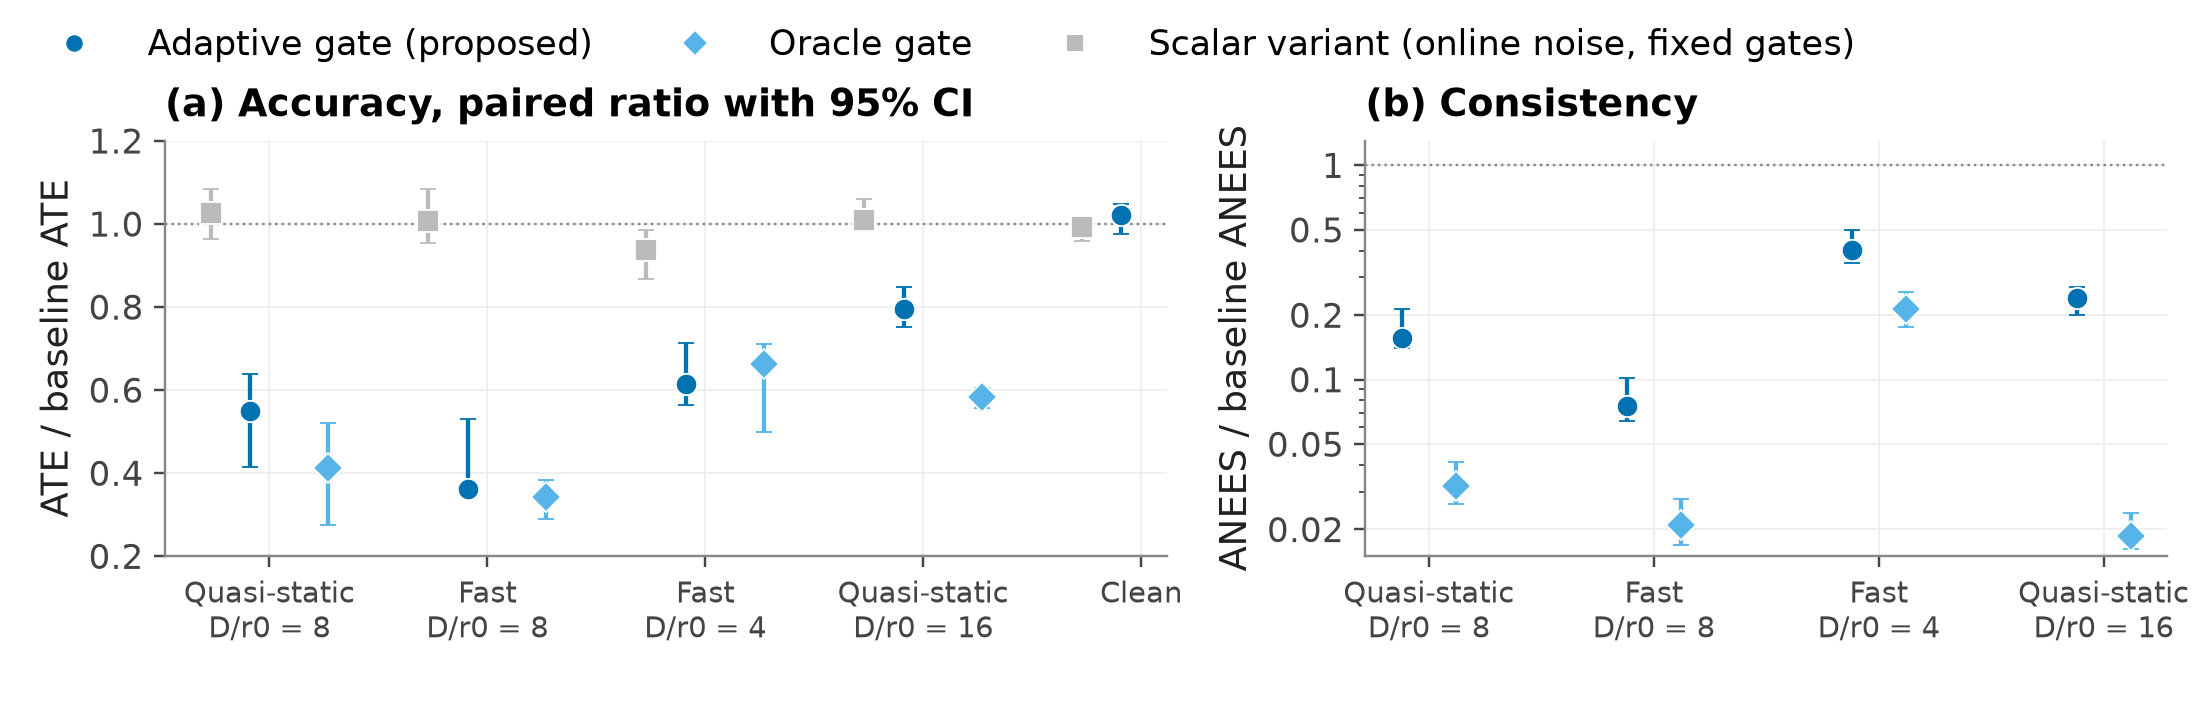
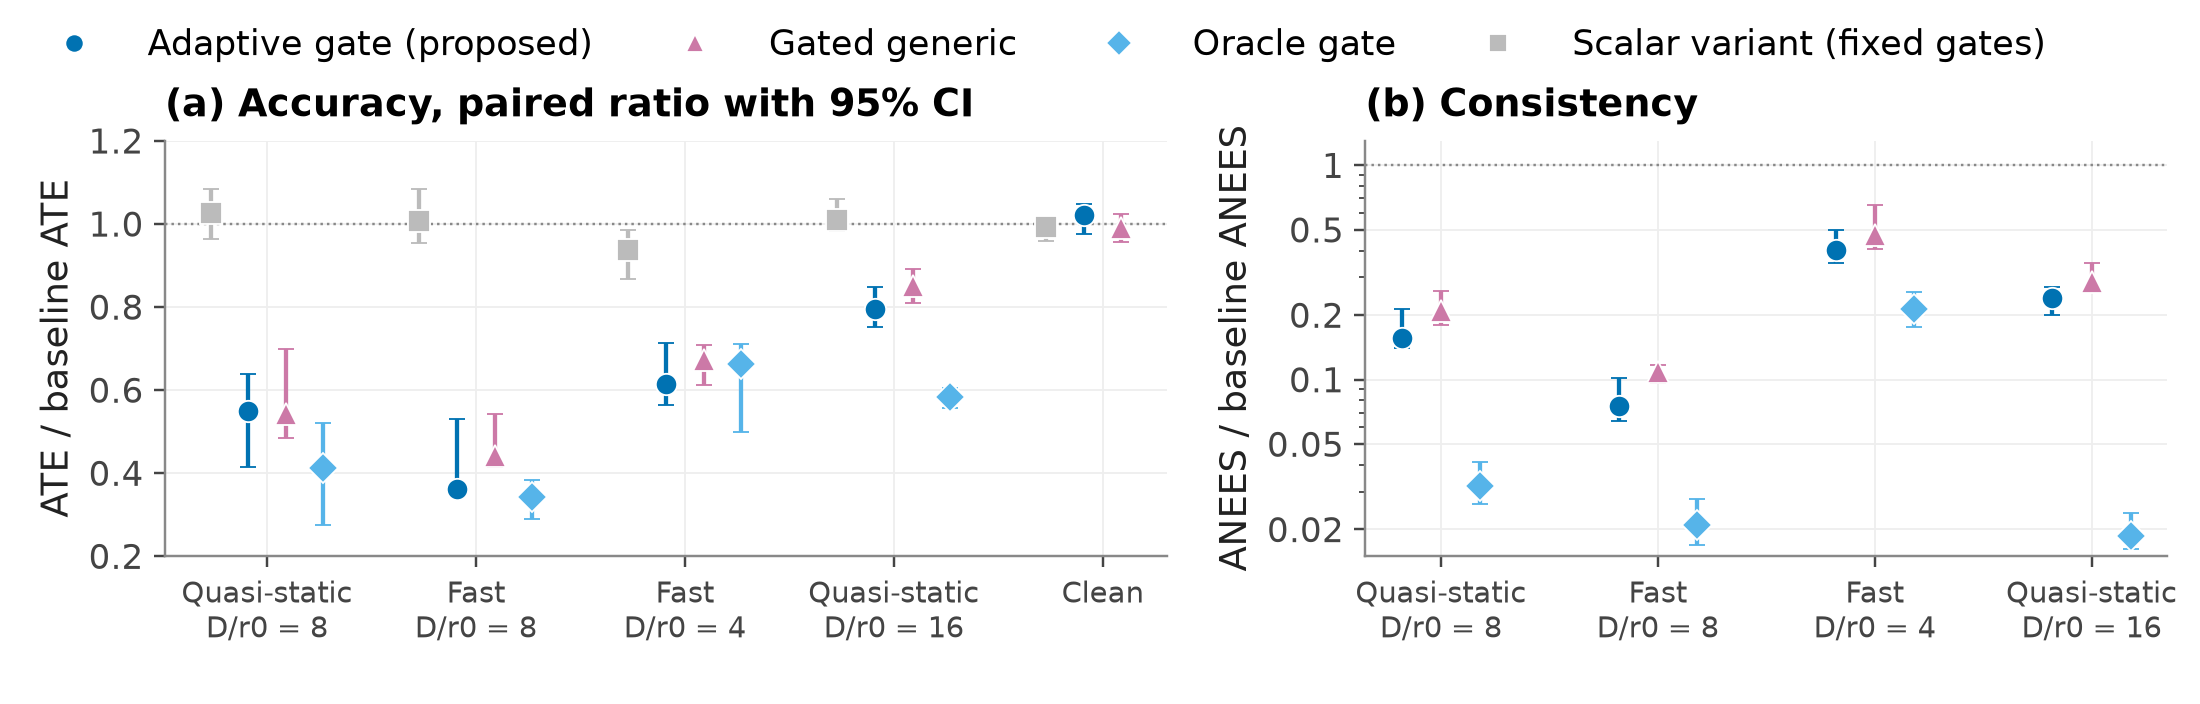
README: headline strip, highlights, trust section; gated generic arm in Figure 3

diff --git a/scripts/make_readme_figures.py b/scripts/make_readme_figures.py
@@ -28,8 +28,8 @@ fs.SYS = {
     "orb":      (GREEN, (0, (6, 2, 1.5, 2)), 1.5, "ORB-SLAM3"),
     "airslam":  (ORANGE, (0, (5, 2)), 1.5, "AirSLAM"),
     "droid":    (GREY, (0, (8, 3)), 1.5, "DROID-SLAM"),
-    "generic":  (PINK, (0, (6, 2, 1, 2, 1, 2)), 1.5, "Generic adaptive noise + gate"),
-    "scalar":   (fs.NEUTRAL_BAR, "-", 1.5, "Scalar variant (online noise, fixed gates)"),
+    "generic":  (PINK, (0, (6, 2, 1, 2, 1, 2)), 1.5, "Gated generic"),
+    "scalar":   (fs.NEUTRAL_BAR, "-", 1.5, "Scalar variant (fixed gates)"),
 }
 COND = ["R0-8", "R5-8", "R5-4", "R0-16", "R0-0"]
 COND_LABEL = ["Quasi-static\nD/r0 = 8", "Fast\nD/r0 = 8", "Fast\nD/r0 = 4", "Quasi-static\nD/r0 = 16", "Clean\n"]
@@ -151,8 +151,10 @@ def gate(plt):
     a.axhline(1, color="#888888", lw=0.8, ls=":")
     a.set_xticks(x5); a.set_xticklabels(COND_LABEL); a.set_ylabel("ATE / baseline ATE"); a.set_ylim(0.2, 1.2)
     a.set_title("(a) Accuracy, paired ratio with 95% CI")
-    _pts(b, "gate", x4 - 0.12, [K["I5_poz"][f"KAPI/A0@{c}"] for c in COND[:4]], "o")
-    _pts(b, "oracle", x4 + 0.12, [K["I5_poz"][f"A1g/A0@{c}"] for c in COND[:4]], "D")
+    _pts(b, "gate", x4 - 0.18, [K["I5_poz"][f"KAPI/A0@{c}"] for c in COND[:4]], "o")
+    if G is not None:   # S3: position ANEES ratios of Deviation 7
+        _pts(b, "generic", x4, [G["S3"][f"AGg/A0@{c}"] for c in COND[:4]], "^")
+    _pts(b, "oracle", x4 + 0.18, [K["I5_poz"][f"A1g/A0@{c}"] for c in COND[:4]], "D")
     b.axhline(1, color="#888888", lw=0.8, ls=":")
     b.set_yscale("log"); b.set_yticks([0.02, 0.05, 0.1, 0.2, 0.5, 1]); b.set_ylim(0.015, 1.3)
     b.set_yticklabels(["0.02", "0.05", "0.1", "0.2", "0.5", "1"])

diff --git a/scripts/readme_tables.py b/scripts/readme_tables.py
@@ -109,7 +109,23 @@ def factorial():
     return out
 
 
-TABLES = [("hero cell", hero_cell), ("highlights", highlights), ("degradation", degradation),
+def at_a_glance():
+    """Headline strip at the top of the README: four numbers, each read from an analysis file."""
+    F = J("results", "FAZ2", "analiz.json")["H1"]
+    K = J("results", "KAPI", "dogrula_analiz.json")
+    S = J("results", "GERCEK_VERI", "saha_ozet.json")["ort15"]["2021-07"]
+    best = min(K["B"][f"KAPI/A0@{c}"]["medyan_oran"] for c in ("R0-8", "R5-8", "R5-4"))
+    clean = K["T"]["KAPI/A0@R0-0"]
+    return [f"| **{F['oran8_medyan']:.2f}×** | **−{100 * (1 - best):.0f}%** | **{clean['medyan_oran']:.3f}** | "
+            f"**{S['G1_spearman']:.3f}** |",
+            "|:---:|:---:|:---:|:---:|",
+            "| ATE of the baseline at D/r0 = 8 relative to clear air (median paired ratio) | median ATE of the adaptive gate against the "
+            "baseline (fast regime, D/r0 = 8) | ATE ratio in clear air: the gate costs nothing when it is not needed "
+            f"(95% CI up to {clean['ga95'][1]:.3f}) | rank correlation of the online estimate with a scintillometer "
+            "on real imagery |"]
+
+
+TABLES = [("at a glance", at_a_glance), ("hero cell", hero_cell), ("highlights", highlights), ("degradation", degradation),
           ("real imagery", real), ("tilt/blur factorial", factorial)]
 
 if __name__ == "__main__":

diff --git a/README.md b/README.md
@@ -1,18 +1,31 @@
 # turb-stereo-vo: Stereo Visual Odometry Under Atmospheric Optical Turbulence
 
-> Code, run records, and pre-registration of the study "Stereo Visual Odometry Under Atmospheric Optical
-> Turbulence: Online Image-Motion Estimation and Adaptive Outlier Gating" (Ufuk Asil).
+<p align="center">
+<img src="https://img.shields.io/badge/license-MIT-0072B2" alt="License: MIT">
+<img src="https://img.shields.io/badge/python-3.12-0072B2" alt="Python 3.12">
+<img src="https://img.shields.io/badge/study-pre--registered-0072B2" alt="Pre-registered study">
+<img src="https://img.shields.io/badge/paper%20numbers-re--derived%20by%20script-0072B2" alt="Paper numbers re-derived by script">
+</p>
 
-Long-range cameras look through air whose refractive index fluctuates; the image of a static scene then
-moves by several pixels, differently in every part of the field. This repository measures what that does to
-stereo visual odometry (VO) and tests a remedy inside a factor-graph stereo pipeline (PyEco-SLAM):
+> Code, run records, and pre-registration of the paper "Stereo Visual Odometry Under Atmospheric Optical
+> Turbulence: Online Image-Motion Estimation and Adaptive Outlier Gating" (Ufuk Asil, OSTIM Technical University).
+
+Look at a distant scene above a hot road and it shimmers. For a camera that navigates, the shimmer is not a
+cosmetic problem: every tracked feature wanders by several pixels, differently across the image, and the
+odometry starts throwing away correct matches as outliers. This repository measures how much that costs
+stereo visual odometry (VO), finds where the loss comes from, and removes most of it with a remedy that reuses
+the residuals the odometry already computes.
+
+| **9.03×** | **−64%** | **1.020** | **0.863** |
+|:---:|:---:|:---:|:---:|
+| ATE of the baseline at D/r0 = 8 relative to clear air (median paired ratio) | median ATE of the adaptive gate against the baseline (fast regime, D/r0 = 8) | ATE ratio in clear air: the gate costs nothing when it is not needed (95% CI up to 1.047) | rank correlation of the online estimate with a scintillometer on real imagery |
 
 - **Simulator.** Anisoplanatic tilt and short-exposure blur from Kolmogorov phase screens, injected after
   rectification, with a quasi-static and a fast temporal regime (`turb/`).
 - **Online estimator.** The tilt standard deviation is estimated during flight from the differential motion
   of tracked features, by a structure-function fit, without a reference target (`turb/dimm_v2.py`).
 - **Adaptive gate.** The estimate scales the pixel noise and the outlier gates of tracking together
-  (`--turb_gate 3`); scaling the noise alone does not change the accuracy.
+  (`--turb_gate 3`) inside a factor-graph stereo pipeline (PyEco-SLAM).
 
 <p align="center"><img src="docs/figures/hero.png" width="100%"></p>
 <p align="center"><sub><b>Figure 1.</b> EuRoC MH05, frames 502–901, fast regime, D/r0 = 8, seed 3: the window with the largest gain in the confirmatory grid, shown as a selected example. Top: the same left-camera frame without and with turbulence. Bottom: causal trajectories and position error of the baseline and of the adaptive gate. The median gain over the grid is smaller; see Highlights.</sub></p>
@@ -40,21 +53,23 @@ pre-registered and analysed once.
 | Fast, D/r0 = 4 | **0.613 [0.564, 0.712]** | 0.672 | 0.952 [0.923, 1.023] | 0.937 | 0.662 | 0.401 |
 | No turbulence | 1.020 [0.976, 1.047] | 0.989 | 1.019 [0.999, 1.037] | 0.991 | – | 0.683 |
 
-- Turbulence degrades every tested system: at D/r0 = 8 the ATE grows by a factor of 2.6 to 7.0, and two of the
-  four systems lose more than 40% of the windows at D/r0 = 16.
-- Geometric displacement (tilt), not blur, drives the loss.
-- Scaling only the measurement noise leaves the ATE unchanged (ratios 0.94 to 1.03); scaling the gates with
-  the same estimate lowers it by 21% to 64%.
-- Most of the gain comes from scaling the gates: the gated generic arm also lowers the ATE (ratios 0.44 to
-  0.85). Compared directly, the turbulence estimate is more accurate by 5% to 11% in three conditions and
-  equivalent in the fourth, and it gives a lower position ANEES in all four.
-- Without turbulence the gate is neutral (upper end of the interval 1.047, pre-registered bound 1.10).
-- On real imagery with scintillometer references the estimate follows the measured turbulence strength
-  (rank correlation 0.863).
+- **Up to 64% lower trajectory error.** The adaptive gate cuts the median ATE to 0.362–0.613 of the baseline
+  in the three pre-registered turbulent conditions (Holm-adjusted p ≤ 4.0×10⁻⁹) and improves 35, 36, and 33
+  of the 36 units.
+- **Free in clear air.** Without turbulence the gate is neutral: 1.020 [0.976, 1.047], inside the
+  pre-registered bound of 1.10.
+- **The physics adds to the gain.** Against the same gate driven by a generic residual scale, the turbulence
+  estimate is 5% to 11% more accurate in three of four conditions and equivalent in the fourth, and its
+  position ANEES is 16% to 26% lower in all four.
+- **The cause is found, not guessed.** Inflating the noise alone, even with the true turbulence strength,
+  leaves the ATE unchanged (ratios 0.94 to 1.03): correct matches are lost at the tracking gates, which are
+  tuned for one-pixel noise. Tilt, not blur, carries the loss, and it hits all four tested systems.
+- **Checked against real air.** On 119 one-minute recordings over a 724 m path, the unchanged estimator
+  follows the scintillometer reading (rank correlation 0.863).
 
-Limitations: the accuracy results are obtained with simulated turbulence on EuRoC and a rendered scene, the
-gate does not reach the oracle at D/r0 = 16, and ten pre-registered predictions failed (reported in the
-paper and in `results/`).
+Limitations: the accuracy results come from simulated turbulence on EuRoC and a rendered scene, the online gate
+does not reach the oracle gate at D/r0 ≥ 8, and ten pre-registered predictions failed; all of them are reported
+in the paper and in `results/`.
 
 ## Results
 
@@ -75,7 +90,7 @@ paper and in `results/`).
 ### 2. Adaptive gate
 
 <p align="center"><img src="docs/figures/gate.png" width="100%"></p>
-<p align="center"><sub><b>Figure 3.</b> (a) ATE ratio to the baseline with 95% confidence intervals and (b) position ANEES ratio to the baseline, for the scalar variant, the adaptive gate, and the oracle gate in the four turbulent conditions and without turbulence.</sub></p>
+<p align="center"><sub><b>Figure 3.</b> (a) ATE ratio and (b) position ANEES ratio to the baseline, with 95% confidence intervals, in the four turbulent conditions and without turbulence. The gated generic arm uses the same gate rule with a residual-based scale; the scalar variant uses the online noise level with fixed gates; the oracle gate is given the true tilt strength.</sub></p>
 
 ### 3. Online estimate on real imagery
 
@@ -99,7 +114,20 @@ applied (45 units). The shares sum to more than one at D/r0 = 16; the effects ar
 | D/r0 = 8 | 0.818 | 0.087 |
 | D/r0 = 16 | 0.836 | 0.362 |
 
-## Protocol
+## Why the numbers can be trusted
+
+- **Written down before the runs.** Hypotheses, metrics, tests, and decision rules were fixed in a
+  pre-registration document whose SHA-256 was recorded before the confirmatory runs; each of the seven later
+  deviations was dated and hashed before its results existed (`preregistration/`).
+- **Failures are kept.** Ten predictions failed, among them the expectation that blur would dominate the loss; they
+  are reported in the paper and its supplementary material next to the ones that held.
+- **No number is typed by hand.** Every table of this README and every headline number of the paper is
+  re-derived from the stored records by a script (see [Reproducing the paper](#reproducing-the-paper)).
+- **Every record knows its code.** Each run record carries the fingerprint of the code that produced it
+  (`docs/IDENTITY.md`), and the grids added by the deviations were started only after pre-tests that include
+  bit-identity checks against the reference runs.
+
+### Protocol
 
 | Item | Setting |
 |:---|:---|
@@ -190,6 +218,10 @@ Every record in `results/` carries the fingerprint of the code that produced it 
 ## License
 
 MIT for the code of this repository (`LICENSE`). Vendored third-party code keeps its own license (`NOTICE`).
+
+## Contact
+
+Questions, bug reports, and replication attempts are welcome through GitHub issues.
 
 ## Citation
 
